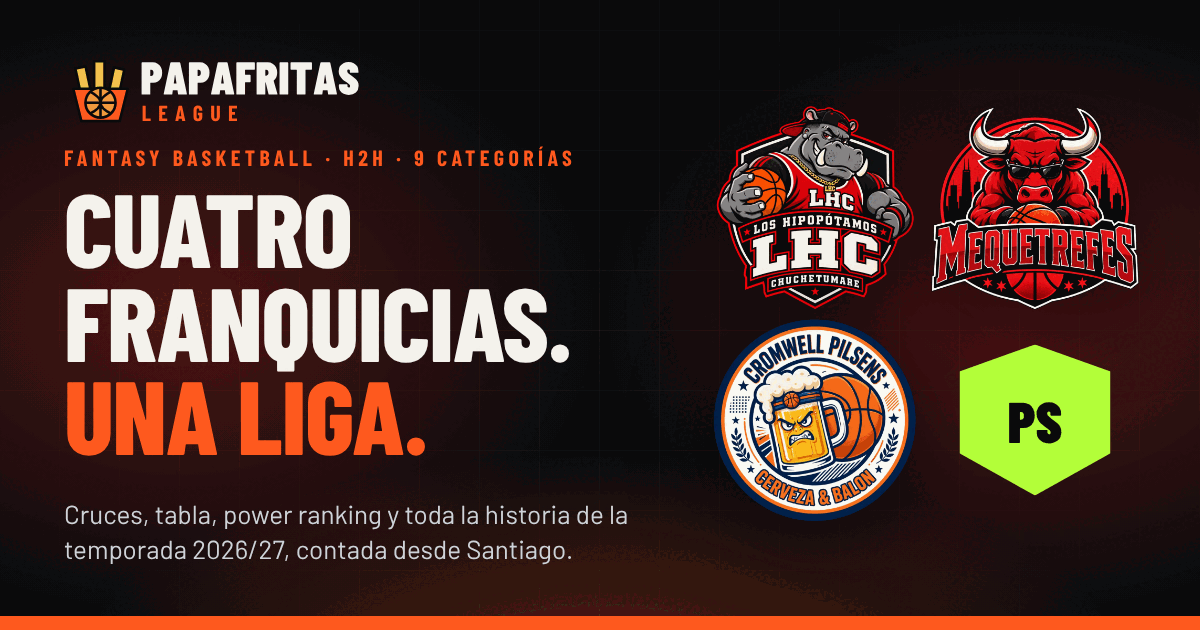
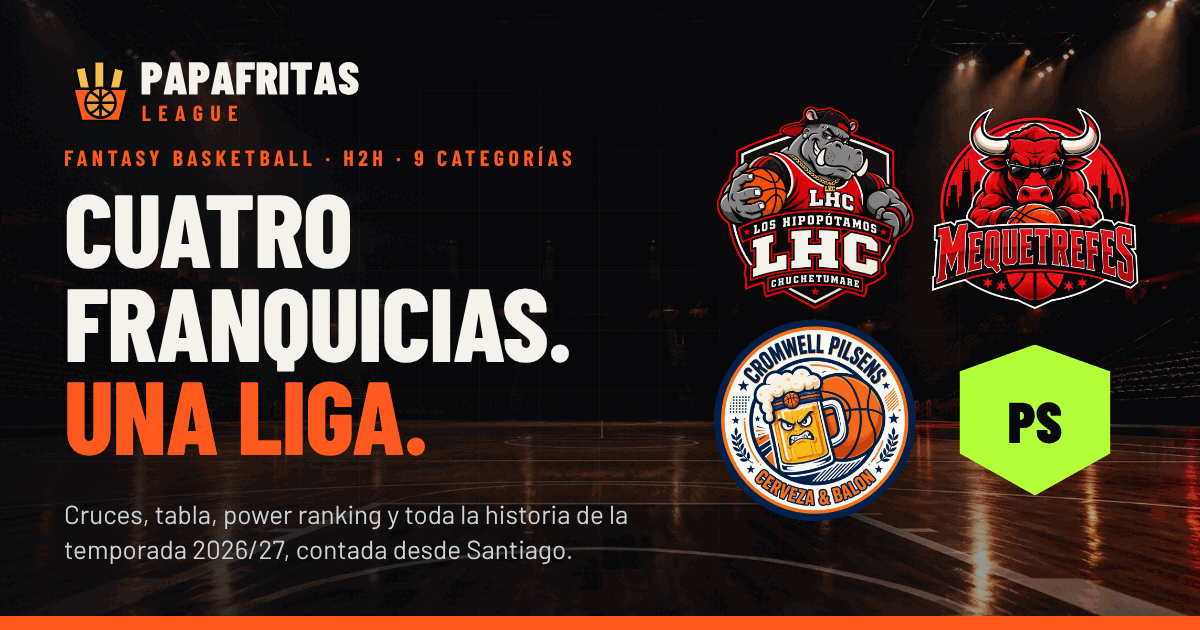
Portada con fondo de arena: foto de estadio tras el hero y en la imagen OG
- assets/arena.webp (escritorio) y arena-sm.webp (móvil), ~115 KB en total
- La arena se ancla bajo el ticker y solo aparece en portada
- Tarjetas del hero translúcidas para que se vea el estadio
- Imagen para compartir regenerada con la arena de fondo

diff --git a/css/styles.css b/css/styles.css
@@ -109,6 +109,23 @@ main{min-height:65vh;padding-bottom:40px}
 .badge{width:100%;height:100%;display:grid;place-items:center;color:#0a0b0d;font-family:var(--display);font-weight:900;font-size:calc(var(--s,48px)*.34);letter-spacing:-.02em;background:var(--team);clip-path:polygon(50% 0,100% 18%,100% 72%,50% 100%,0 72%,0 18%);position:relative}
 .badge:after{content:'';position:absolute;inset:0;background:linear-gradient(160deg,rgba(255,255,255,.35),transparent 55%,rgba(0,0,0,.25));clip-path:inherit;pointer-events:none}
 
+/* ---------- Arena (fondo de portada) ---------- */
+.arena{position:absolute;left:0;right:0;top:110px;height:min(1000px,100vh + 240px);z-index:-1;pointer-events:none;opacity:0;transition:opacity .8s var(--ease);
+  background:
+    linear-gradient(180deg,rgba(10,11,13,.2) 0%,rgba(10,11,13,0) 25%,rgba(10,11,13,.25) 60%,var(--bg) 100%),
+    radial-gradient(100% 70% at 50% 40%,transparent 50%,rgba(10,11,13,.6) 100%),
+    url(../assets/arena.webp) center top/cover no-repeat}
+body.is-home .hero{margin-top:96px}
+body.is-home .arena{opacity:1}
+body.is-home{background-image:none}
+body.is-home .feature,body.is-home .story{background-color:transparent;backdrop-filter:blur(3px);-webkit-backdrop-filter:blur(3px)}
+body.is-home .feature{background:
+  radial-gradient(600px 400px at 12% 50%,color-mix(in srgb,var(--ta) 30%,transparent),transparent 60%),
+  radial-gradient(600px 400px at 88% 50%,color-mix(in srgb,var(--tb) 30%,transparent),transparent 60%),
+  linear-gradient(180deg,rgba(21,24,29,.28),rgba(15,17,20,.62))}
+body.is-home .story{background:linear-gradient(160deg,rgba(27,31,38,.45),rgba(15,17,20,.78))}
+body.is-home .feature,body.is-home .story{border-color:rgba(255,255,255,.1);box-shadow:0 30px 80px rgba(0,0,0,.55)}
+
 /* ---------- Hero ---------- */
 .hero{margin:36px 0 0;display:grid;grid-template-columns:1.25fr 1fr;gap:20px}
 .feature{position:relative;overflow:hidden;border-radius:var(--radius);border:1px solid var(--line);background:
@@ -142,7 +159,8 @@ main{min-height:65vh;padding-bottom:40px}
 .story h1{font-size:clamp(44px,4.6vw,72px);letter-spacing:-.01em;margin:16px 0 14px}
 .story h1 em{font-style:normal;color:var(--orange)}
 .story p{color:var(--text-2);font-size:16px;line-height:1.6;max-width:44ch;margin:0}
-.story .ghost{position:absolute;right:20px;bottom:-24px;font-family:var(--display);font-weight:900;font-size:150px;color:rgba(255,255,255,.035);letter-spacing:-.04em;line-height:1;pointer-events:none;user-select:none}
+.story .btn{position:relative;z-index:1;align-self:flex-start}
+.story .ghost{z-index:0;position:absolute;right:20px;bottom:-24px;font-family:var(--display);font-weight:900;font-size:150px;color:rgba(255,255,255,.035);letter-spacing:-.04em;line-height:1;pointer-events:none;user-select:none}
 
 /* ---------- Cruces ---------- */
 .matches{display:grid;grid-template-columns:1fr 1fr;gap:16px}
@@ -374,6 +392,8 @@ footer .tagline{color:var(--text-2)}
 }
 @media(max-width:620px){
   :root{--gutter:16px}
+  .arena{background:linear-gradient(180deg,rgba(10,11,13,0) 0%,rgba(10,11,13,0) 55%,var(--bg) 100%),url(../assets/arena-sm.webp) center top/165% auto no-repeat,var(--bg);height:420px}
+  body.is-home .hero{margin-top:150px}
   .top{font-size:10px;letter-spacing:.12em}.top span:last-child{display:none}
   .brand{width:190px}
   body.scrolled .brand{width:160px}

diff --git a/js/app.js b/js/app.js
@@ -246,6 +246,7 @@ function route(focus = false) {
   else if (view === 'cruce' && matchupById(id)) { const m = matchupById(id); html = matchupPage(m); title = m.teams.map(t => team(t).short).join(' vs '); nav = 'calendario'; }
   else html = '<div class="empty"><h1>Página no encontrada</h1><a class="link" href="#">Volver a portada</a></div>';
   $('#contenido').innerHTML = html;
+  document.body.classList.toggle('is-home', nav === 'home' && (!hash || hash === 'contenido'));
   document.title = title + ' | Papafritas League';
   document.querySelectorAll('[data-nav]').forEach(a => { if (a.dataset.nav === nav) a.setAttribute('aria-current', 'page'); else a.removeAttribute('aria-current'); });
   document.querySelectorAll('.team-image').forEach(img => { const fb = () => { img.hidden = true; img.nextElementSibling.hidden = false; }; img.addEventListener('error', fb); if (img.complete && !img.naturalWidth && img.src) fb(); });
@@ -259,7 +260,13 @@ function route(focus = false) {
 const io = 'IntersectionObserver' in window ? new IntersectionObserver(es => es.forEach(e => { if (e.isIntersecting) { e.target.classList.add('in'); io.unobserve(e.target); } }), { rootMargin: '0px 0px -8% 0px' }) : null;
 function reveal() { document.querySelectorAll('.reveal:not(.in)').forEach((el, i) => { el.style.transitionDelay = Math.min(i * 40, 280) + 'ms'; io ? io.observe(el) : el.classList.add('in'); }); }
 
+/* ---------- Arena: se ancla justo bajo el ticker ---------- */
+function placeArena() { const t = $('.ticker'), a = $('.arena'); if (t && a) a.style.top = (t.offsetTop + t.offsetHeight) + 'px'; }
+window.addEventListener('resize', placeArena, { passive: true });
+window.addEventListener('load', placeArena);
+
 window.addEventListener('hashchange', () => route(true));
 window.addEventListener('scroll', () => document.body.classList.toggle('scrolled', window.scrollY > 40), { passive: true });
 ticker();
 route();
+placeArena();

diff --git a/index.html b/index.html
@@ -46,6 +46,7 @@
   <div class="track"><div class="rail" id="ticker-rail"></div></div>
 </div>
 
+<div class="arena" aria-hidden="true"></div>
 <main id="contenido" class="wrap" tabindex="-1"></main>
 
 <footer>
